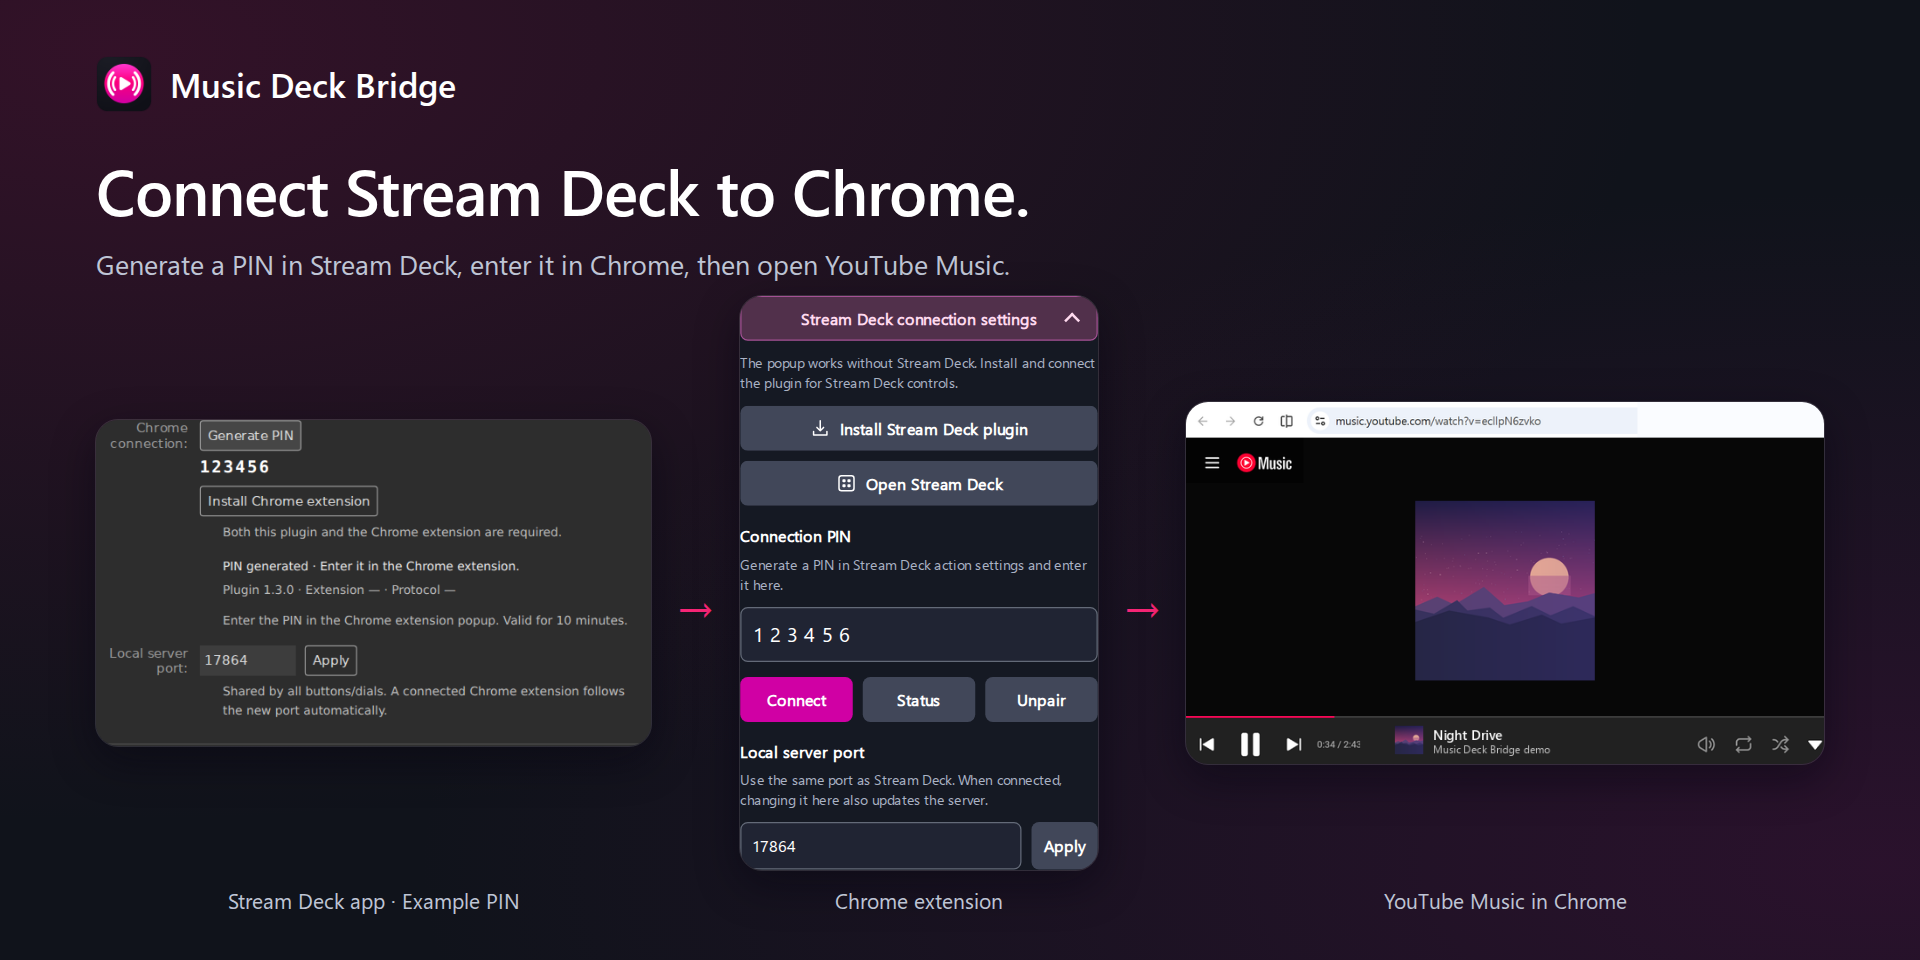
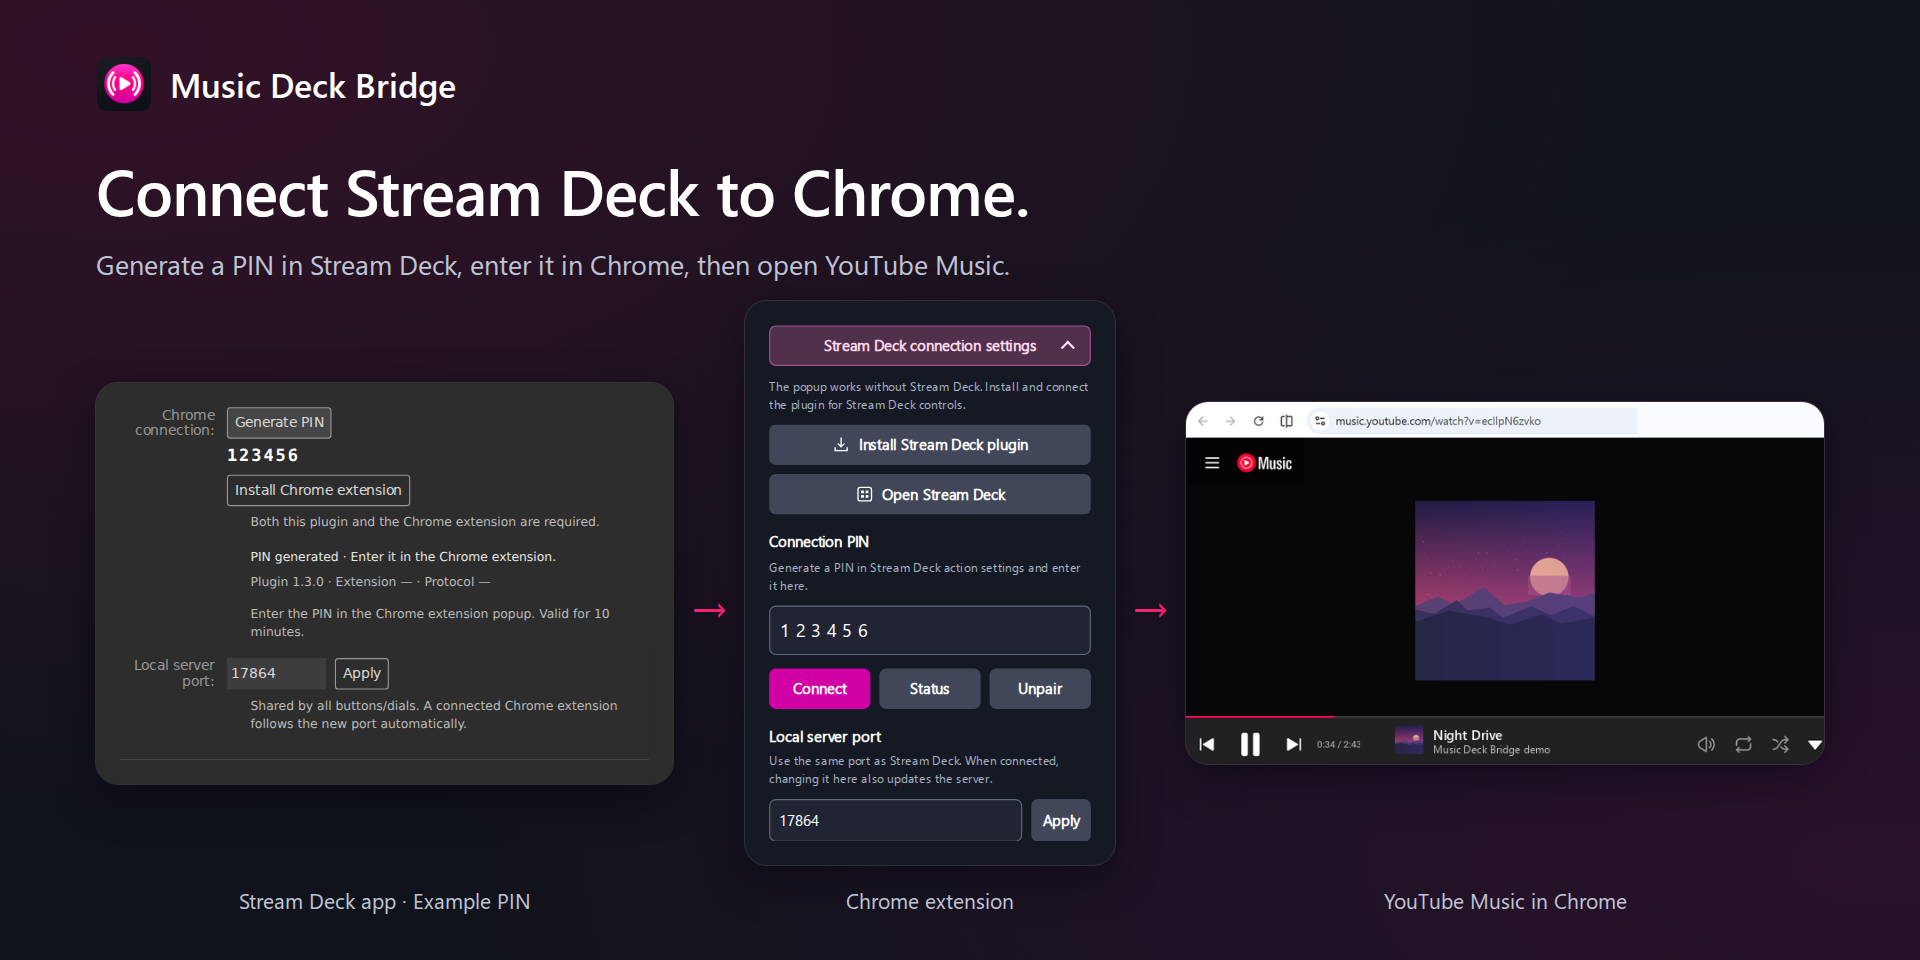
docs: refine connection and linked artwork gallery slides

Changed region(s): [[0.0312, 0.2812, 0.5938, 0.9688], [0.125, 0.9062, 0.2812, 0.9688], [0.5625, 0.625, 0.5938, 0.6562]]

diff --git a/docs/verification/media.md b/docs/verification/media.md
@@ -41,11 +41,11 @@ Separately, on Windows Stream Deck 7.6.1.23033 with build `394b941`, the existin
 
 The [five gallery drafts](../../store-assets/drafts/v1.3.0/README.md) follow the layout, background colors and typography of the [published Marketplace gallery](https://marketplace.elgato.com/product/music-deck-bridge-044e81d9-9671-4277-bcb9-ce8b6d38c3fd). Revision `40b4245` records the product-photo draft. Revision `1dcf495` records the Stream Deck + app captures with the installed `394b941` plugin, including its eight-key linked artwork.
 
-The overview and controls slides use the [edited Stream Deck + profile capture](../../store-assets/drafts/v1.3.0/media/stream-deck-controls-profile-touch-strip.png) at native size. Its Current Track icon uses pixels captured with the updated plugin running in Windows Stream Deck 7.6.1.23033. Its Volume icon uses the updated transparent plugin asset at the size shown in the original app capture. Pixel comparisons confirmed both slides match the edited profile crop inside the rounded corners. The controls slide also shows a 5 × 3 MK.2 sample. The linked artwork slide shows MK.2 and 8 × 4 XL samples, rendered using the plugin's key and album tile renderer. The gallery labels those panels as profile layout examples. [Elgato device comparison](https://help.elgato.com/hc/en-us/articles/4422903730573-Elgato-Stream-Deck-Device-Comparison)
+The overview and controls slides use the [edited Stream Deck + profile capture](../../store-assets/drafts/v1.3.0/media/stream-deck-controls-profile-touch-strip.png) at native size. Its Current Track icon uses pixels captured with the updated plugin running in Windows Stream Deck 7.6.1.23033. Its Volume icon uses the updated transparent plugin asset at the size shown in the original app capture. Pixel comparisons confirmed both slides match the edited profile crop inside the rounded corners. The controls slide also shows a 5 × 3 MK.2 sample. The linked artwork slide shows MK.2 and 8 × 4 XL profile examples with nine and eighteen linked tiles respectively, alongside standard action icons and unassigned keys. Render checks confirmed each linked key received a distinct crop from the plugin's album tile renderer. [Elgato device comparison](https://help.elgato.com/hc/en-us/articles/4422903730573-Elgato-Stream-Deck-Device-Comparison)
 
 The before-and-after Windows app captures confirmed that the Current Track feedback lost the dark rectangle around the icon. The prior installed plugin was restored after the check. SDK tests and the Chromium preview checked the volume and mute feedback. The Windows capture establishes app preview output for Current Track. Physical touch-strip output was outside the verification scope.
 
-The two playback popup panels were captured from the bundle's English UI with sample playback in paired and standalone modes. The connection slide captures the bundled property inspector and popup settings using sample PIN `123456` and default port `17864`. The YouTube Music panel uses cropped Chrome and YouTube Music UI from a designated Windows playback window with the same original cover and sample title composited into it. Account controls, bookmarks and the original album cover were kept outside the export. The five English RGB PNGs were checked at 1920 × 960 and visually reviewed against the published design.
+The two playback popup panels were captured from the bundle's English UI with sample playback in paired and standalone modes. The connection slide captures the bundled property inspector and popup settings using sample PIN `123456` and default port `17864`. Each settings panel has a 24-pixel margin on all four sides. Pixel checks confirmed that the content pixels match the captures and layout checks verified that the PIN and port controls fit in the crop. The YouTube Music panel uses cropped Chrome and YouTube Music UI from a designated Windows playback window with the same original cover and sample title composited into it. Account controls, bookmarks and the original album cover were kept outside the export. The five English RGB PNGs were checked at 1920 × 960 and visually reviewed against the published design.
 
 ## Development key backgrounds
 

diff --git a/store-assets/drafts/v1.3.0/README.md b/store-assets/drafts/v1.3.0/README.md
@@ -21,9 +21,9 @@ Elgato 갤러리 초안은 모두 영어 1920 × 960 PNG입니다. 공개 갤러
 
 1. [제품 소개](elgato-gallery-01-overview-1920x960.png) — Stream Deck 플러그인과 Chrome 확장 프로그램을 `+`로 묶고 `→`로 YouTube Music과 연결합니다.
 2. [Stream Deck 키 기능](elgato-gallery-02-controls-1920x960.png) — MK.2와 Stream Deck +의 재생, 반복·셔플, 볼륨·평가 매핑과 Stream Deck +의 두 다이얼을 보여줍니다.
-3. [연결 방법](elgato-gallery-03-connection-1920x960.png) — Stream Deck의 Chrome 연결·로컬 서버 포트, Chrome 확장의 연결 설정, YouTube Music 브라우저를 순서대로 보여줍니다. 두 설정 화면에는 동일한 예시 PIN과 포트를 표시합니다.
+3. [연결 방법](elgato-gallery-03-connection-1920x960.png) — Stream Deck과 Chrome 확장의 설정 화면에 여백을 두어 예시 PIN, 로컬 서버 포트와 버튼이 모두 보이도록 했습니다. 마지막에 YouTube Music 브라우저를 보여줍니다.
 4. [Chrome 단독 제어](elgato-gallery-04-chrome-1920x960.png) — 확장 팝업과 YouTube Music 브라우저를 함께 보여줍니다.
-5. [연결 앨범 이미지](elgato-gallery-05-linked-artwork-1920x960.png) — MK.2와 XL의 15개 및 32개 키 전체에 각각 하나의 예시 앨범 이미지를 연결합니다.
+5. [연결 앨범 이미지](elgato-gallery-05-linked-artwork-1920x960.png) — MK.2와 XL에서 선택한 키에 앨범 이미지를 연결하고, 다른 키에는 재생·볼륨 등의 동작 아이콘을 표시하거나 비워 둡니다.
 
 Chrome의 권한 및 호스트 범위는 1.2.0과 동일합니다. 개인정보 양식은 이번 버전이 마지막 곡 한 개와 플레이어 상태를 로컬에 보존하고 Google·YouTube 이미지 서버에서 앨범 이미지를 가져오는 동작을 반영해야 합니다. [개인정보 처리방침](../../../PRIVACY.md)
 
